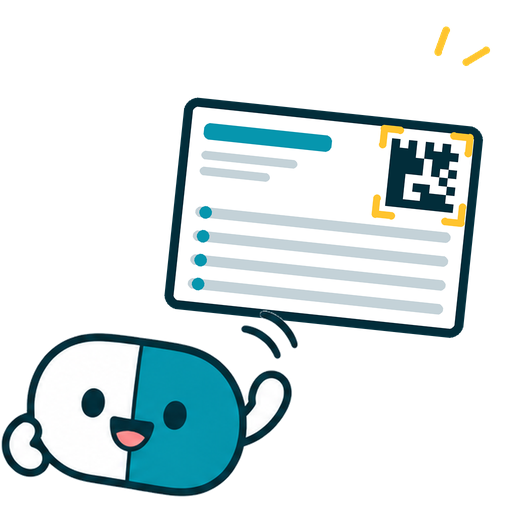
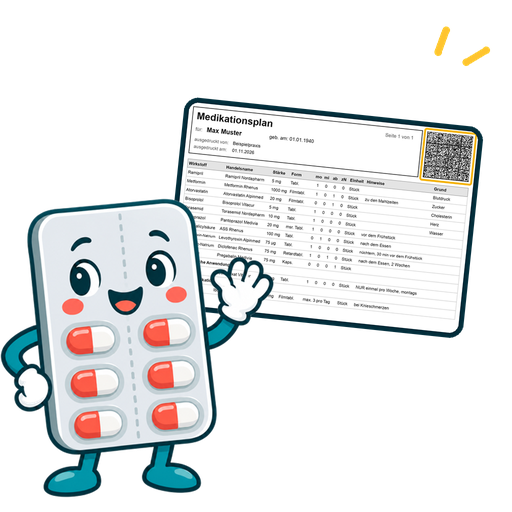
feat(pwa,ios): "Plan einlesen" shows the blister mascot with the example plan (#20)
* feat(pwa,ios): "Plan einlesen" shows the app icon's blister mascot

The scan-plan picture on the big "Plan einlesen" button had the capsule
mascot; it now has the waving blister mascot of the app icon
(pwa/icons/mascot-wave.png, art by Anna P.), mirrored so it waves at the
plan with the framed code. make-scan-plan.py builds it; same file on both
clients. sw.js VERSION v11.

* feat(pwa,ios): "Plan einlesen" mascot holds the example plan picture

The drawn plan card in the scan-plan picture is now the welcome card's
example plan (pwa/img/plan-hint.png), code already framed in yellow, so
both pictures on the welcome screen show the same plan. The outline is
thinner so the yellow frame at the edge stays visible. Unused drawing
code removed from make-scan-plan.py.

* chore(pwa): sw.js VERSION v12 (main took v11 meanwhile)

---------

diff --git a/pwa/sw.js b/pwa/sw.js
@@ -1,7 +1,7 @@
 // Service worker: precaches the whole app on the first visit, then serves it from the cache, so BlisterKompass
 // works in flight mode. Nothing is fetched from anywhere else. Bump VERSION when any file changes.
 
-const VERSION = "blisterkompass-v11";
+const VERSION = "blisterkompass-v12";
 
 const PRECACHE = [
   "./",

diff --git a/docs/brand/pill-mascot/make-scan-plan.py b/docs/brand/pill-mascot/make-scan-plan.py
@@ -1,12 +1,11 @@
-"""Mascot state "scan-plan": the waving pill next to a paper Medikationsplan, scan corners on its code.
+"""Mascot state "scan-plan": the waving blister mascot of the app icon next to a paper Medikationsplan, scan corners on its code.
 
 Run after slice.py: python3 docs/brand/pill-mascot/make-scan-plan.py   (needs Pillow)
-Builds on pwa/img/mascot/base.png and writes the same two places as slice.py:
+Builds on pwa/icons/mascot-wave.png (art by Anna P., the app icon's mascot) and writes the same two places as slice.py:
 pwa/img/mascot/scan-plan.png and ios/PillSnap/Assets.xcassets/mascot-scan-plan.imageset.
-The plan is drawn, not photographed: A4 landscape, header, table rows, 2D code top right (as on the real BMP).
+The plan is the welcome card's example plan (pwa/img/plan-hint.png): A4 landscape, code top right, framed in yellow.
 """
 import json
-import random
 from pathlib import Path
 
 from PIL import Image, ImageDraw
@@ -14,10 +13,8 @@ from PIL import Image, ImageDraw
 ROOT = Path(__file__).resolve().parents[3]
 SIZE, SS = 512, 2  # output size, supersampling
 INK = (2, 45, 58, 255)  # mascot outline
-TEAL = (6, 150, 174, 255)
-PAPER = (255, 255, 255, 255)
-ROW = (196, 210, 216, 255)
 SCAN = (255, 196, 46, 255)  # the yellow of the mascot's sparkles
+MASCOT_H = 300  # blister mascot height on the 512 canvas
 
 
 def s(v):
@@ -25,51 +22,22 @@ def s(v):
 
 
 def plan_sheet() -> Image.Image:
-    """The paper plan, upright, on its own layer (supersampled)."""
-    w, h, line = 300, 212, 9
+    """The paper plan, upright, on its own layer (supersampled): the welcome card's example plan (pwa/img/plan-hint.png,
+    made by tools/make-plan-hint.py, code already framed in yellow) with rounded corners and the mascot's outline."""
+    w, h, line = 300, 212, 5
     im = Image.new("RGBA", (s(w + 40), s(h + 40)), (0, 0, 0, 0))
-    d = ImageDraw.Draw(im)
     x0, y0 = s(20), s(20)
-    d.rounded_rectangle((x0, y0, x0 + s(w), y0 + s(h)), radius=s(14), fill=PAPER, outline=INK, width=s(line))
-    # Header: title bar and two short text lines.
-    d.rounded_rectangle((x0 + s(22), y0 + s(24), x0 + s(150), y0 + s(40)), radius=s(6), fill=TEAL)
-    for i, ln in enumerate((96, 70)):
-        d.rounded_rectangle((x0 + s(22), y0 + s(52 + i * 16), x0 + s(22 + ln), y0 + s(60 + i * 16)), radius=s(4), fill=ROW)
-    # Table rows.
-    for i in range(4):
-        y = y0 + s(108 + i * 24)
-        d.rounded_rectangle((x0 + s(22), y, x0 + s(w - 22), y + s(10)), radius=s(5), fill=ROW)
-        d.ellipse((x0 + s(26), y - s(1), x0 + s(38), y + s(11)), fill=TEAL)
-    # 2D code top right: L finder on left/bottom, clock track on top/right, random modules inside.
-    n, m = 8, 8.5
-    cx, cy = x0 + s(w - 22 - n * m), y0 + s(20)
-    rnd = random.Random(28)
-    for r in range(n):
-        for c in range(n):
-            on = (c == 0 or r == n - 1 or (r == 0 and c % 2 == 0) or (c == n - 1 and r % 2 == 1)
-                  or (0 < r < n - 1 and 0 < c < n - 1 and rnd.random() < 0.5))
-            if on:
-                d.rectangle((cx + s(c * m), cy + s(r * m), cx + s((c + 1) * m) - 1, cy + s((r + 1) * m) - 1), fill=INK)
-    im.info["code"] = (cx, cy, s(n * m))
+    paper = Image.open(ROOT / "pwa/img/plan-hint.png").convert("RGBA").resize((s(w), s(h)), Image.LANCZOS)
+    mask = Image.new("L", paper.size, 0)
+    ImageDraw.Draw(mask).rounded_rectangle((0, 0, s(w) - 1, s(h) - 1), radius=s(14), fill=255)
+    im.paste(paper, (x0, y0), mask)
+    ImageDraw.Draw(im).rounded_rectangle((x0, y0, x0 + s(w), y0 + s(h)), radius=s(14), outline=INK, width=s(line))
     return im
-
-
-def corners(d: ImageDraw.ImageDraw, box, arm, width, fill):
-    x0, y0, x1, y1 = box
-    for (x, y, dx, dy) in ((x0, y0, 1, 1), (x1, y0, -1, 1), (x0, y1, 1, -1), (x1, y1, -1, -1)):
-        d.line((x + dx * arm, y, x, y, x, y + dy * arm), fill=fill, width=width, joint="curve")
-        for px, py in ((x + dx * arm, y), (x, y + dy * arm), (x, y)):
-            d.ellipse((px - width / 2, py - width / 2, px + width / 2, py + width / 2), fill=fill)
 
 
 def main():
     canvas = Image.new("RGBA", (s(SIZE), s(SIZE)), (0, 0, 0, 0))
     sheet = plan_sheet()
-    cx, cy, cw = sheet.info["code"]
-    # Scan corners around the code, drawn on the sheet so they tilt with it.
-    d = ImageDraw.Draw(sheet)
-    pad = s(9)
-    corners(d, (cx - pad, cy - pad, cx + cw + pad, cy + cw + pad), s(16), s(7), SCAN)
     tilted = sheet.rotate(-6, resample=Image.BICUBIC, expand=True)
     canvas.alpha_composite(tilted, (s(SIZE - 6) - tilted.width, s(74)))
     # Sparkles next to the code, like on the other states.
@@ -78,10 +46,10 @@ def main():
         d.line((s(x0), s(y0), s(x1), s(y1)), fill=SCAN, width=s(7))
         for x, y in ((x0, y0), (x1, y1)):
             d.ellipse((s(x) - s(3.5), s(y) - s(3.5), s(x) + s(3.5), s(y) + s(3.5)), fill=SCAN)
-    # The pill, mirrored so the waving hand points at the plan, in front of the sheet's lower left.
-    pill = Image.open(ROOT / "pwa/img/mascot/base.png").convert("RGBA").transpose(Image.FLIP_LEFT_RIGHT)
+    # The blister mascot, mirrored so the waving hand points at the plan, in front of the sheet's lower left.
+    pill = Image.open(ROOT / "pwa/icons/mascot-wave.png").convert("RGBA").transpose(Image.FLIP_LEFT_RIGHT)
     pill = pill.crop(pill.getbbox())
-    k = s(300) / pill.width
+    k = s(MASCOT_H) / pill.height
     pill = pill.resize((round(pill.width * k), round(pill.height * k)), Image.LANCZOS)
     canvas.alpha_composite(pill, (s(0), s(SIZE - 14) - pill.height))
     out = canvas.resize((SIZE, SIZE), Image.LANCZOS)

diff --git a/README.md b/README.md
@@ -149,7 +149,7 @@ Code: [MIT](LICENSE). Details on every dataset and what was cut for this public 
 | Barcode reading | [zxing-cpp](https://github.com/zxing-cpp/zxing-cpp) 3.1.1 (iOS), [zxing-wasm](https://github.com/Sec-ant/zxing-wasm) 3.1.6 (web) | Apache-2.0, MIT |
 | PDF reading (web, leaflet the person picks) | [pdf.js](https://github.com/mozilla/pdf.js) 4.10.38, `pwa/vendor/pdfjs/` | Apache-2.0 |
 | Font | Atkinson Hyperlegible | SIL OFL 1.1 |
-| Mascot art (`pwa/icons/mascot-*.png`) | © Anna P. (AnnXQP) | used with permission for this project |
+| Mascot art (`pwa/icons/mascot-*.png`; the blister in `scan-plan`) | © Anna P. (AnnXQP) | used with permission for this project |
 | Plan-code hint pictures (`pwa/img/plan-hint*.png`, `ios/PillSnap/Assets.xcassets/plan-hint*`) | drawn by `tools/make-plan-hint.py` from example plan A (synthetic) | project asset |
 | Pill mascot states (`pwa/img/mascot/`, `ios/PillSnap/Assets.xcassets/mascot-*`) | generated with ChatGPT for this project, cut and drawn by `docs/brand/pill-mascot/*.py` | project asset |
 
